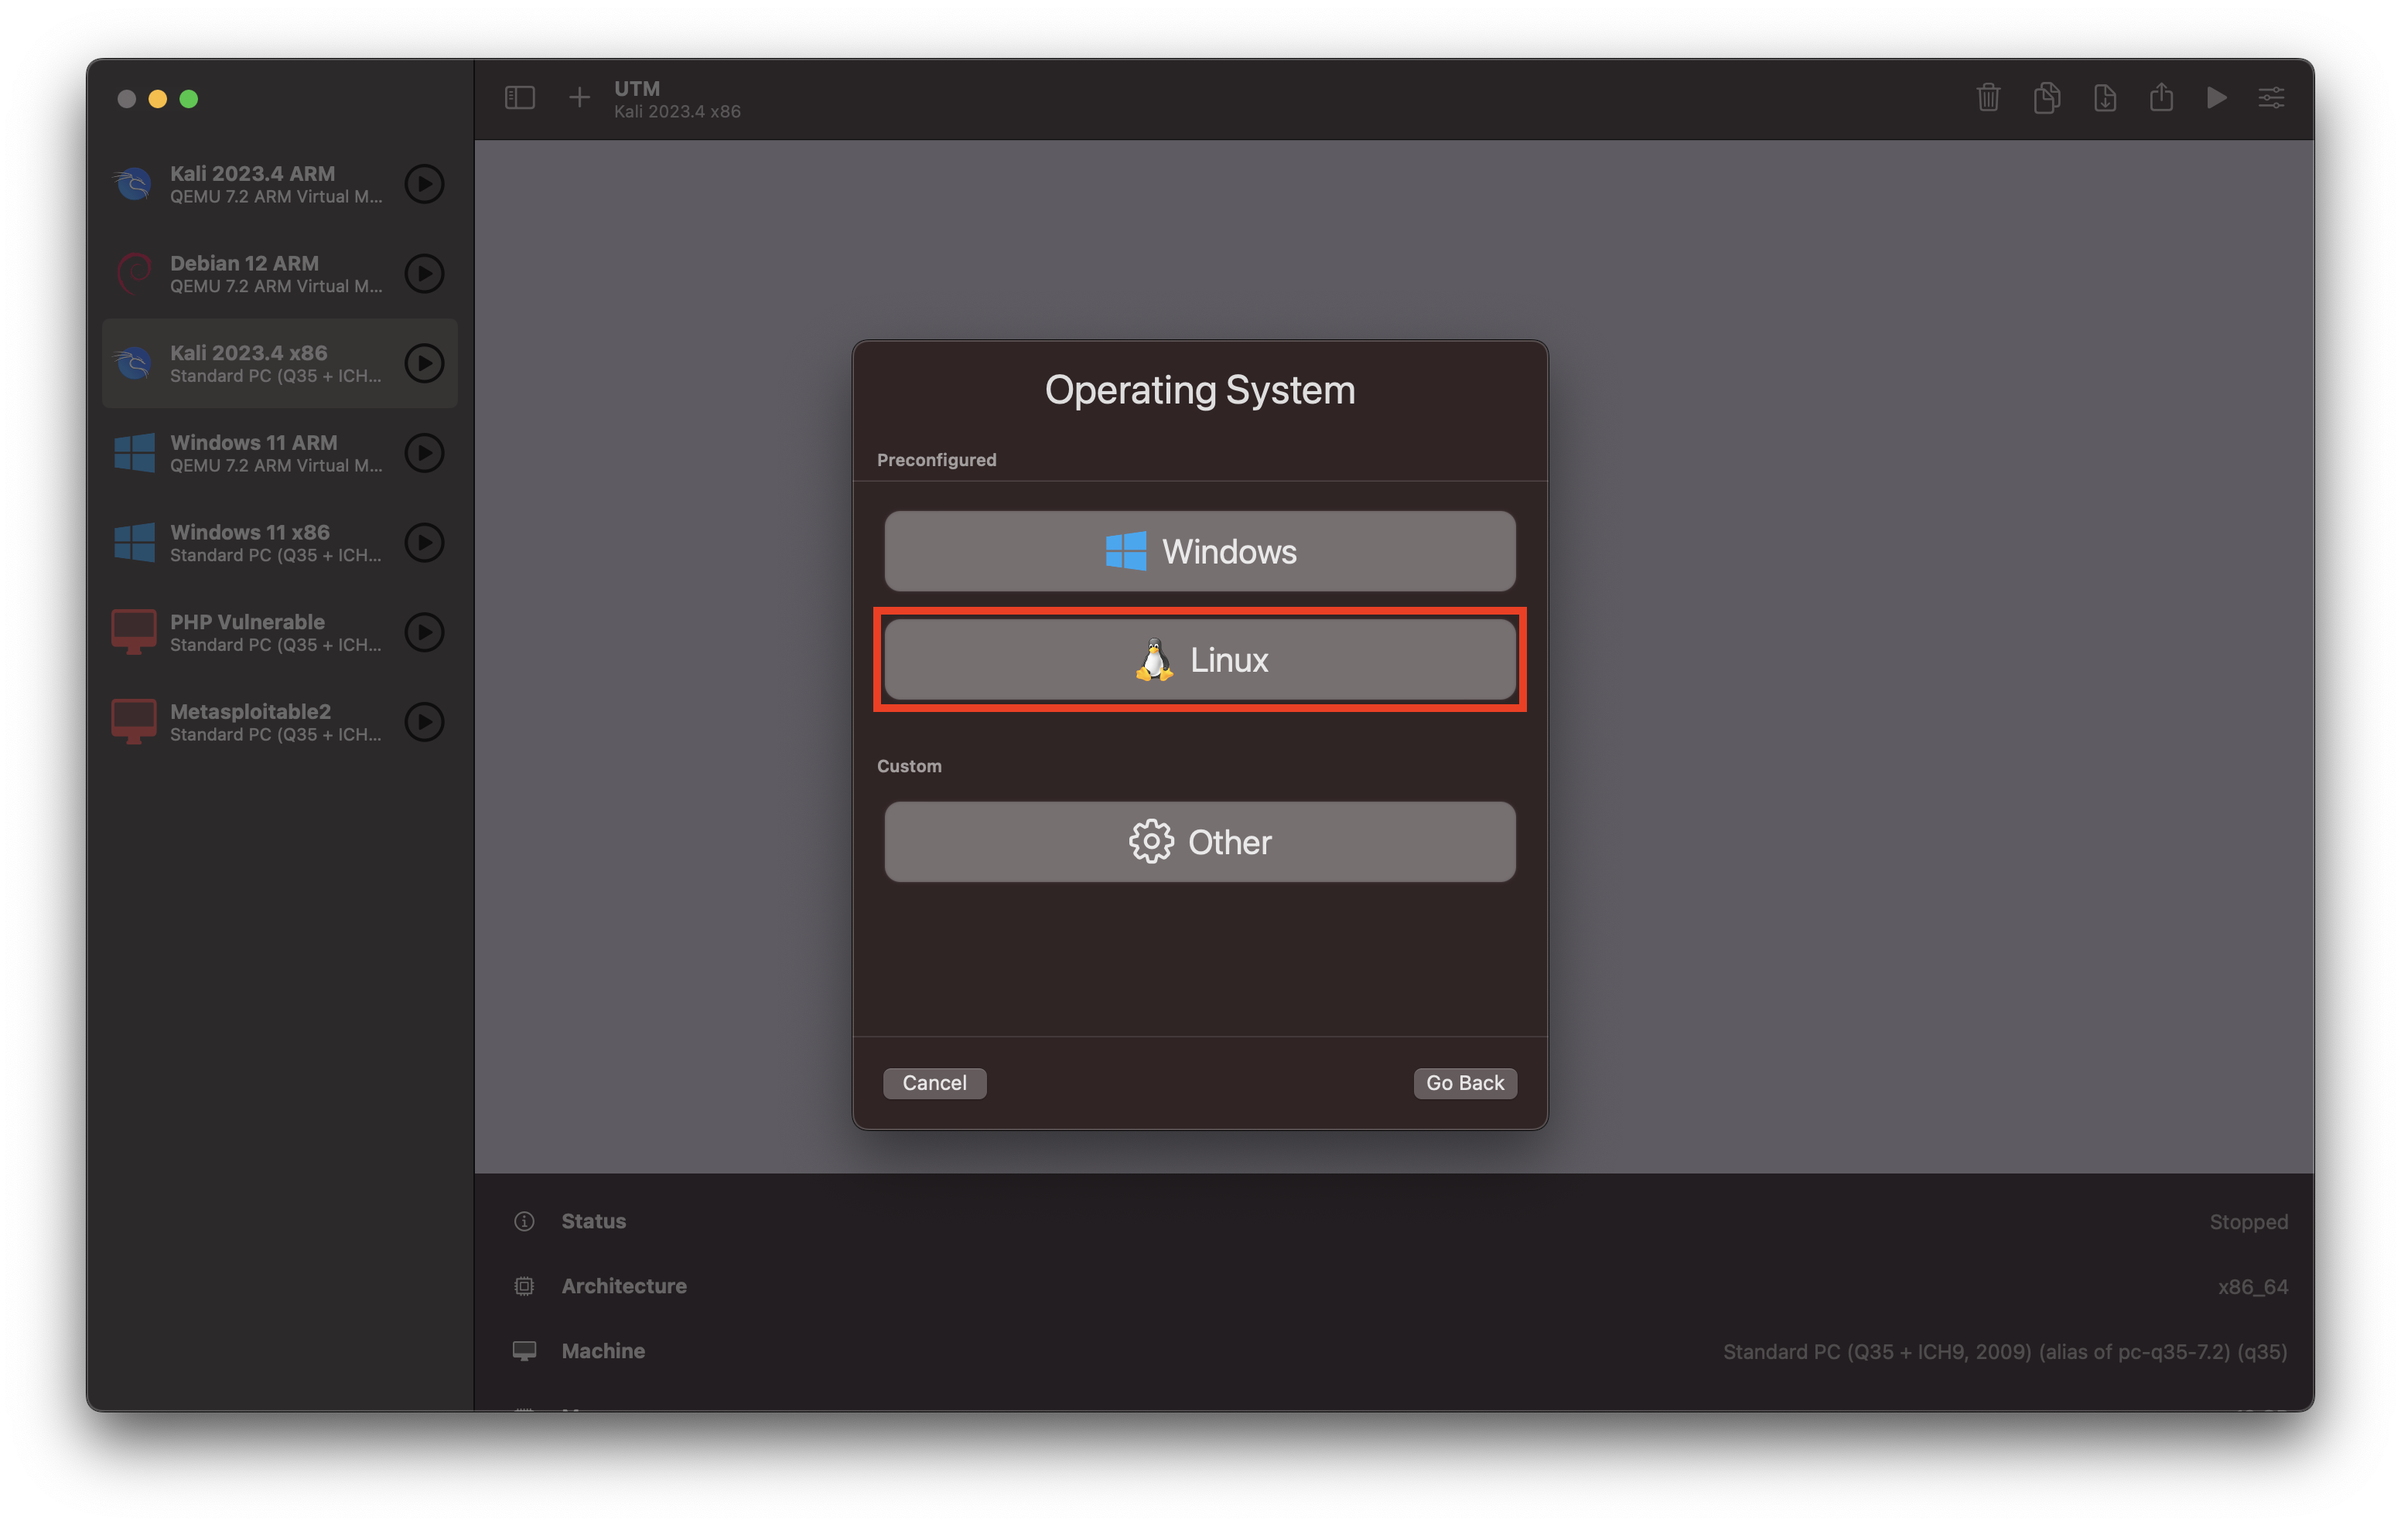
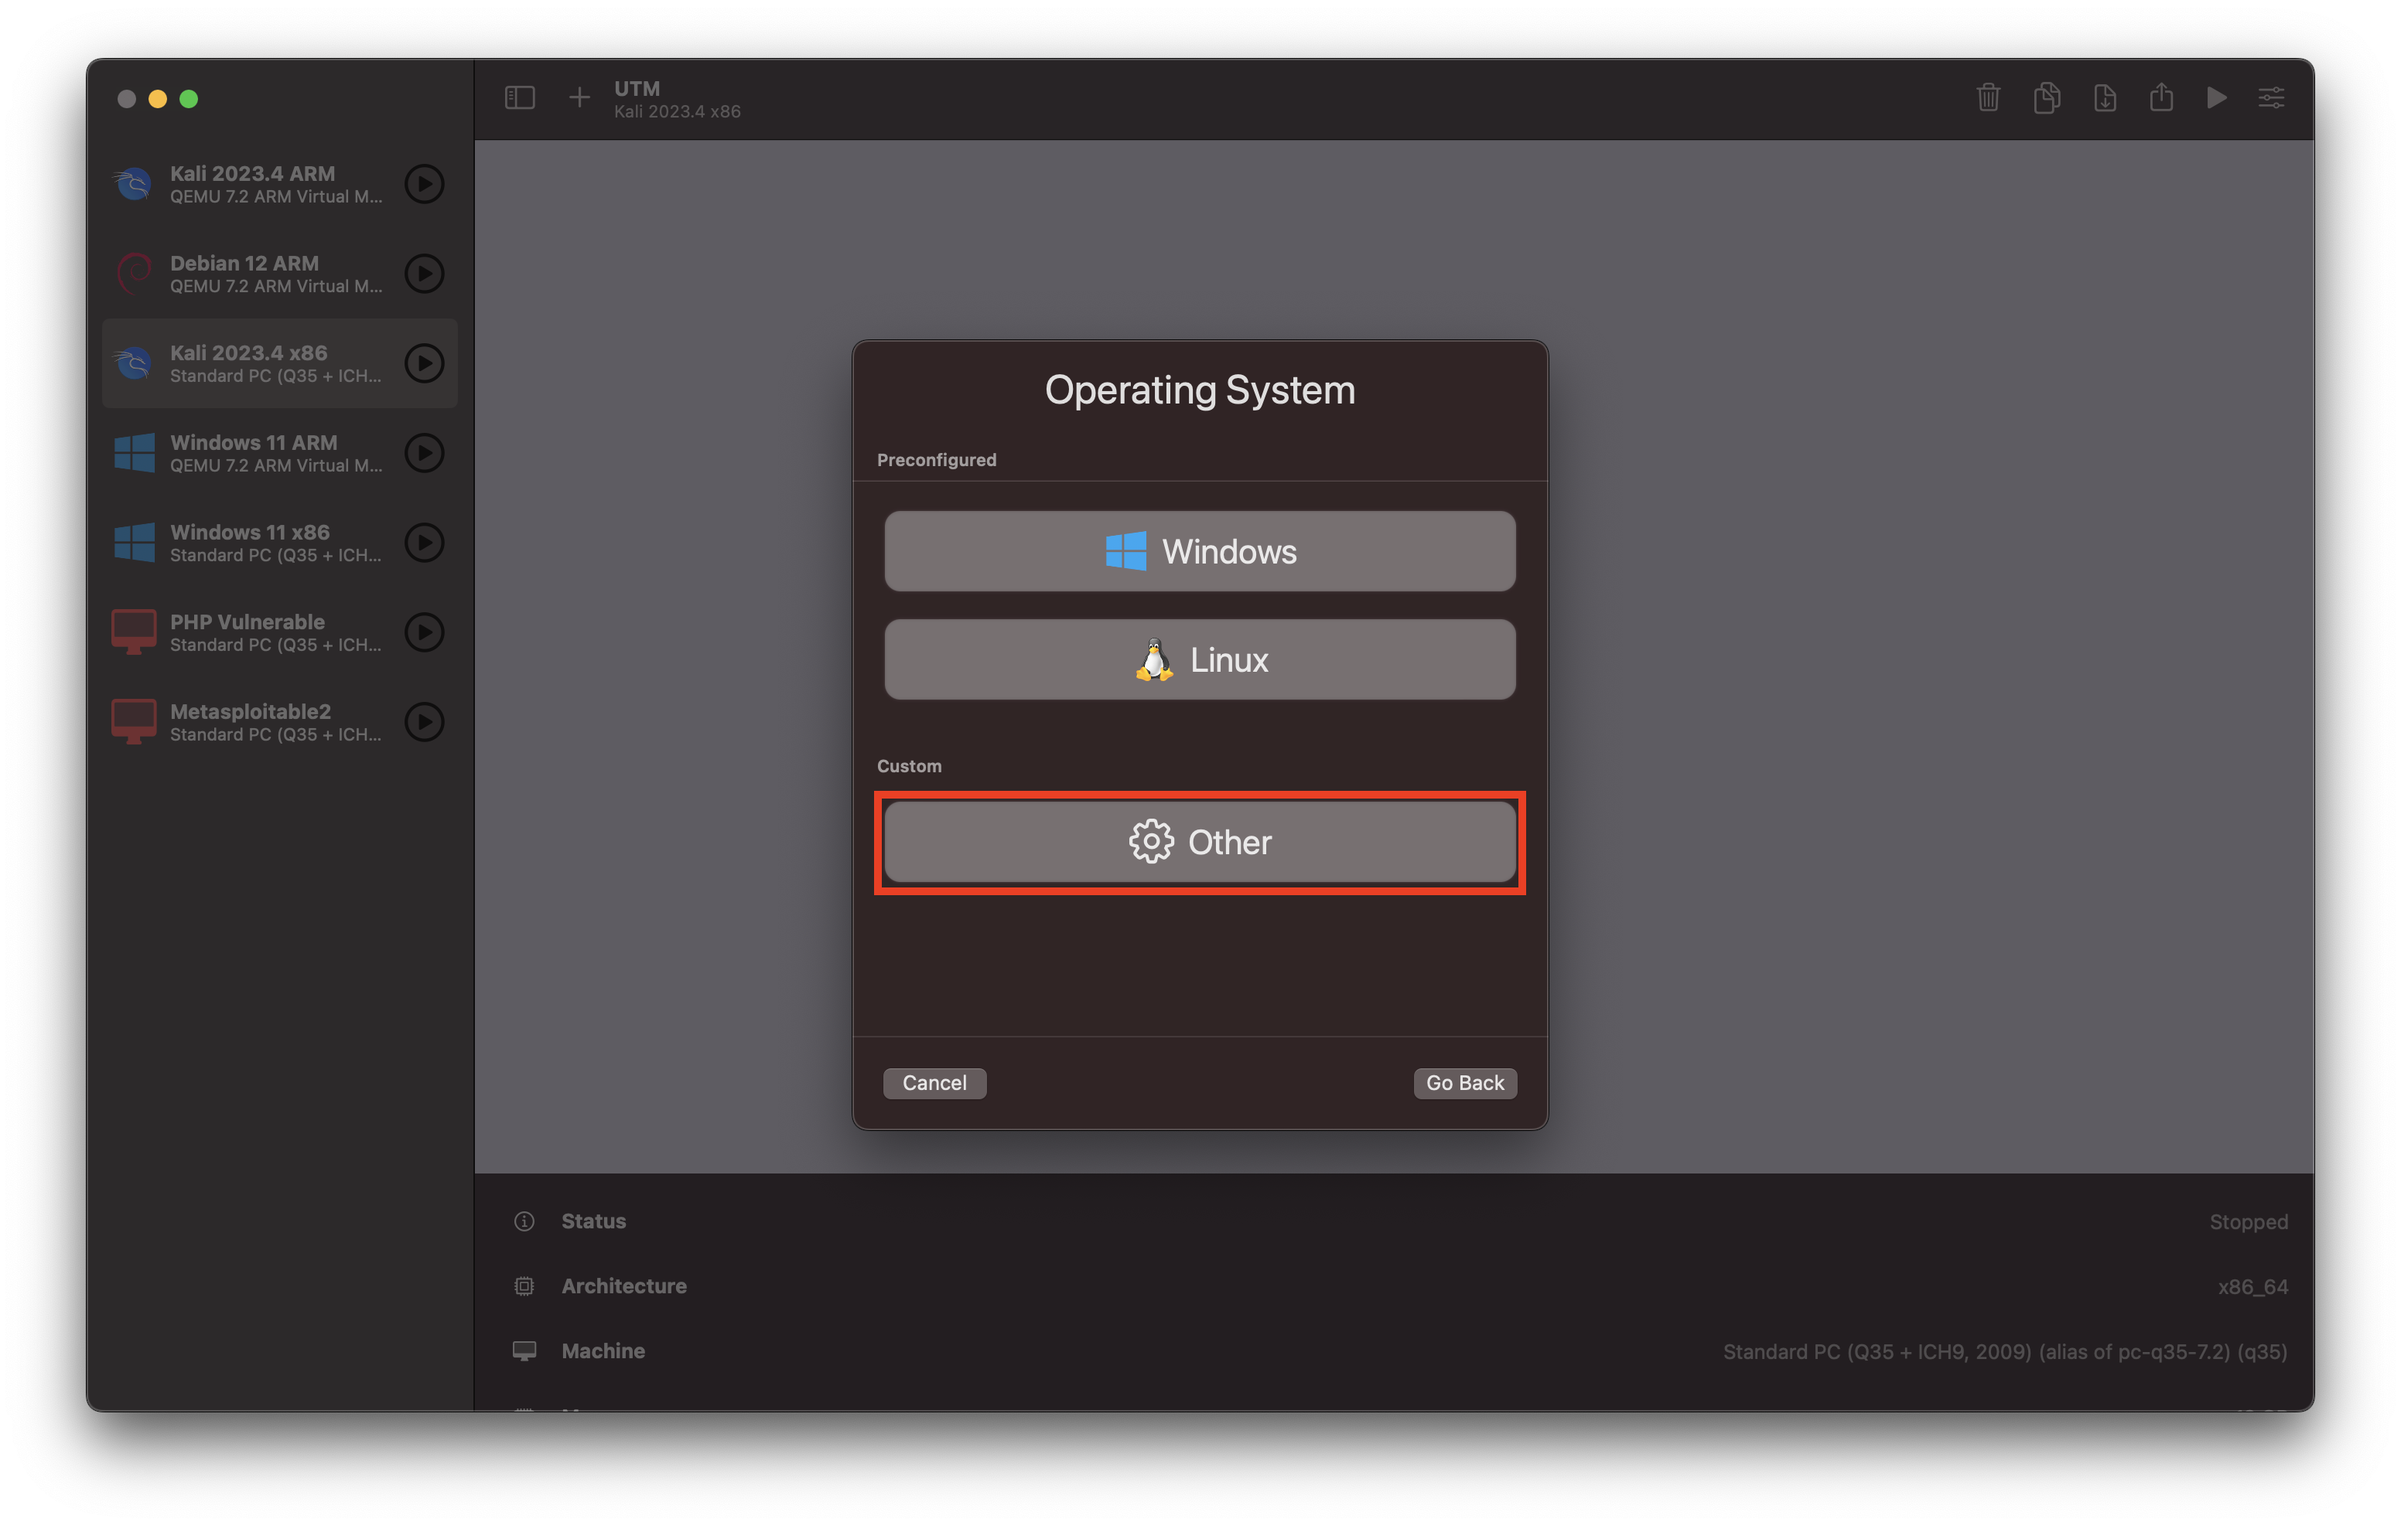
Atualizar conversao-ova.md com imagens corretas e instruções adicionais

diff --git a/docs/conversao-ova/conversao-ova.md b/docs/conversao-ova/conversao-ova.md
@@ -46,9 +46,46 @@ Agora selecione a opção de **emulação**, caso seu Mac possua um chip da sér
 
 ![UTM](./assets/utm2.png)
 
-Selecione o OS **Linux**.
+Selecione a opção de OS **Other**.
 
 ![UTM](./assets/utm3.png)
+
+Marque a caixa de **Skip ISO boot** e clique em continuar.
+
+![UTM](./assets/utm4.png)
+
+Na secção Hardware é possível configurar os detalhes da sua VM.
+Neste caso como a máquina será somente invadida, podemos colocar o padrão.
+
+![UTM](./assets/utm5.png)
+
+O mesmo pensamento pode ser aplicado para o Armazenamento.
+
+![UTM](./assets/utm6.png)
+
+Quanto a pasta compartilhada, é irrelevante.
+
+![UTM](./assets/utm7.png)
+
+Marque a opção de **VM settings** e clique em continuar.
+
+![UTM](./assets/utm8.png)
+
+Na secção QEMU, desmarque a caixa de **UEFI Boot**.
+
+![UTM](./assets/utm9.png)
+
+Em **Drives**, selecione o IDE Drive e clique em **Delete Driver**.
+
+![UTM](./assets/utm10.png)
+
+Clique em **New** na secção **Drives**.
+
+![UTM](./assets/utm11.png)
+
+Selecione **Import...** e importe a imagem **.vmdk** que você criou nos passos anteriores. E clique em **Save** para finalizar a configuração.
+
+![UTM](./assets/utm12.png)
 
 ## 4. Conversão para Parallels Desktop
 
